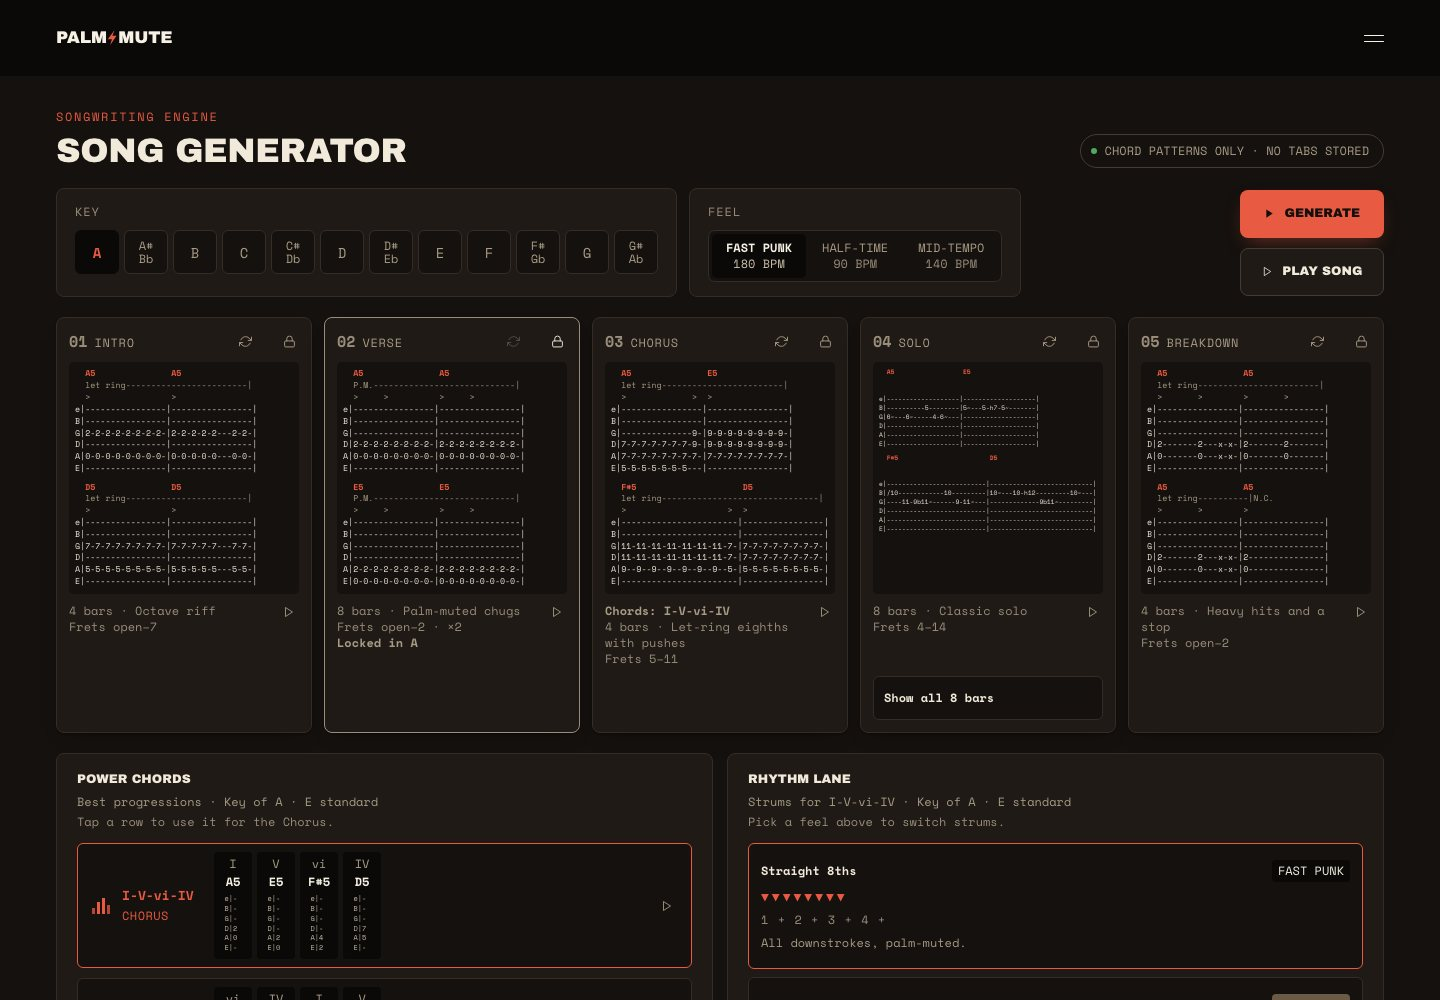
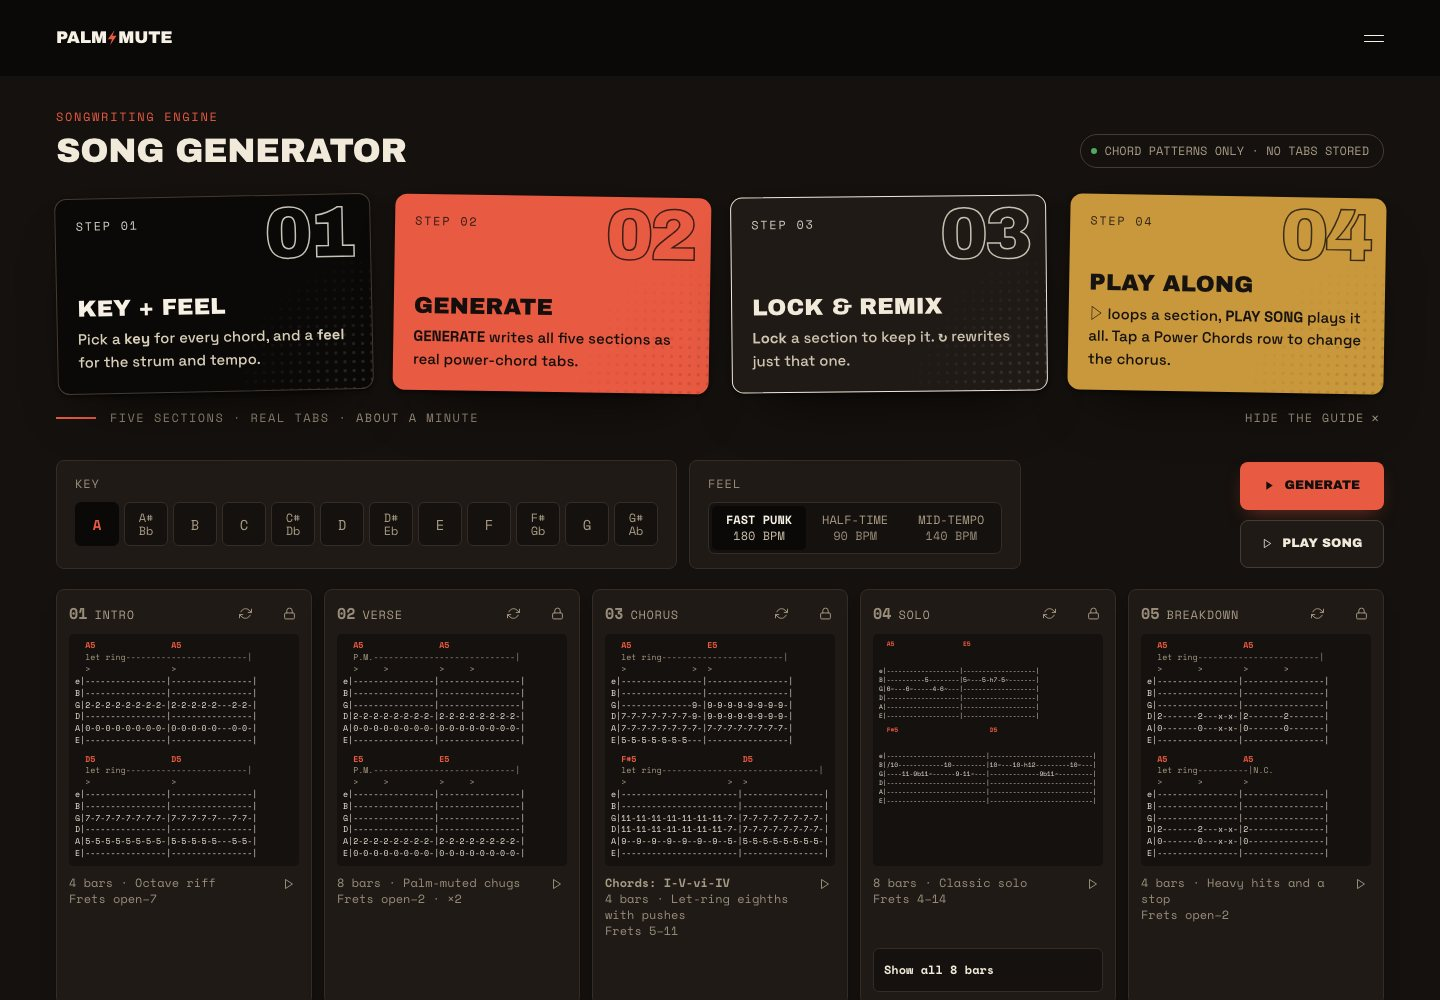
Open the site in light for everyone; start every section unlocked
Theme: the site followed the device's appearance setting until a reader
picked one, so dark-mode devices opened dark. It now opens light for
everyone; dark is only a stored choice from the menu's DARK switch. The
viewport's color-scheme hint is light too, so dark-mode devices don't paint
a dark flash first.

Verse: it started locked only because the original mockups showed it as a
demo of the lock. Every section now starts unlocked.

Tests: "dark" Playwright projects now store a dark choice up front (as a
reader would), so all dark-mode checks still run in dark; the theme test
checks a fresh dark-mode device gets light; tests that relied on a locked
Verse lock it themselves. README screenshots regenerated.

diff --git a/e2e/generator-ux.spec.ts b/e2e/generator-ux.spec.ts
@@ -10,6 +10,8 @@ test.describe("generator UX", () => {
 
   test("a locked section shows its key and can be updated to the new one", async ({ page }) => {
     const verse = section(page, "Verse");
+    await expect(verse).not.toContainText("Locked in"); // every section starts unlocked
+    await verse.getByRole("button", { name: "Lock Verse" }).click();
     await expect(verse).toContainText("Locked in A");
     await expect(verse.getByRole("button", { name: /^Update to/ })).toHaveCount(0);
     const before = await verse.locator("svg[data-tab]").textContent();
@@ -37,8 +39,8 @@ test.describe("generator UX", () => {
       // The Verse's tab is played twice (×2); everything else once per loop.
       expect(played.length % tab.length).toBe(0);
       played.forEach((bar, i) => expect(bar, `${label} bar ${i + 1}`).toEqual(tab[i % tab.length]));
-      // Locked Verse keeps the feel it was locked in; the rest follow the page (Breakdown is always half-time).
-      expect(pb.bars.every((b) => b.feel === (label === "Verse" ? "fast-punk" : "half-time"))).toBe(true);
+      // Every section follows the page's feel (and the Breakdown is always half-time).
+      expect(pb.bars.every((b) => b.feel === "half-time")).toBe(true);
     }
     // Regenerating while playing restarts with the new take.
     const intro = section(page, "Intro");
@@ -64,10 +66,8 @@ test.describe("generator UX", () => {
     // Intro 4 + Verse 4 × 2 + Chorus 4 + Solo 8 (the lead engine; its line is compared) + Breakdown 4.
     const expected = [...tabs.Intro, ...tabs.Verse, ...tabs.Verse, ...tabs.Chorus, ...tabs.Solo, ...tabs.Breakdown];
     expect(playedCells(pb)).toEqual(expected);
-    expect(pb.bars.slice(0, 4).every((b) => b.feel === "mid-tempo")).toBe(true);
-    // The Verse is locked (by default), so it keeps the feel it was locked in, exactly as its card shows.
-    expect(pb.bars.slice(4, 12).every((b) => b.feel === "fast-punk")).toBe(true);
-    expect(pb.bars.slice(12, 16).every((b) => b.feel === "mid-tempo")).toBe(true);
+    // Intro, Verse and Chorus play at the page's feel.
+    expect(pb.bars.slice(0, 16).every((b) => b.feel === "mid-tempo")).toBe(true);
     expect(pb.bars.slice(24).every((b) => b.feel === "half-time")).toBe(true); // Breakdown is always half-time
     expect(pb.bars.slice(16, 24).every((b) => b.lead && b.cells.some(Boolean))).toBe(true); // the solo plays over its chords
     await page.getByRole("button", { name: "STOP SONG" }).click();

diff --git a/e2e/theme.spec.ts b/e2e/theme.spec.ts
@@ -1,16 +1,25 @@
 import { expect, onlyAtWidths, openMenu, projectTheme, test } from "./fixtures";
 
 test.describe("dark mode", () => {
-  test("follows the OS colour scheme by default", async ({ page }, info) => {
-    await page.goto("/");
-    const html = page.locator("html");
-    if (projectTheme(info) === "dark") await expect(html).toHaveClass(/\bdark\b/);
-    else await expect(html).not.toHaveClass(/\bdark\b/);
+  test("the site opens light, whatever the device's appearance setting", async ({ browser }, info) => {
+    onlyAtWidths(info, [1440]);
+    // A fresh visitor with a dark-mode device and no stored choice.
+    for (const colorScheme of ["dark", "light"] as const) {
+      const context = await browser.newContext({ colorScheme, baseURL: info.project.use.baseURL });
+      const page = await context.newPage();
+      for (const path of ["/", "/generator/", "/chords/"]) {
+        await page.goto(path);
+        await expect(page.locator("html"), `${colorScheme} device, ${path}`).not.toHaveClass(/\bdark\b/);
+        expect(await page.evaluate(() => getComputedStyle(document.body).backgroundColor)).toBe("rgb(246, 241, 228)"); // paper
+      }
+      await context.close();
+    }
   });
 
   test("the toggle switches theme and the choice persists", async ({ page }, info) => {
     onlyAtWidths(info, [390, 1440]);
     await page.goto("/generator/");
+    // Light projects start light (the default); dark projects start from a stored dark choice.
     const startDark = projectTheme(info) === "dark";
     await openMenu(page);
     const toggle = page.getByRole("switch", { name: "Dark mode" });

diff --git a/lib/theme.ts b/lib/theme.ts
@@ -1,10 +1,11 @@
-// Dark-mode preference: an explicit choice is stored in localStorage; otherwise follow the OS.
+// Theme: light by default for everyone (owner call, 2026-09-30). Dark only when the reader picks it with
+// the menu's DARK switch; that choice is stored in localStorage and applied before first paint.
 export type Theme = "light" | "dark";
 
 export const THEME_STORAGE_KEY = "palm-mute-theme";
 
-/** Runs in <head> before first paint so a dark-mode page never flashes light. */
-export const THEME_SCRIPT = `(function(){try{var t=localStorage.getItem("${THEME_STORAGE_KEY}");if(t!=="light"&&t!=="dark"){t=window.matchMedia("(prefers-color-scheme: dark)").matches?"dark":"light"}if(t==="dark")document.documentElement.classList.add("dark")}catch(e){}})();`;
+/** Runs in <head> before first paint so a reader who chose dark never sees a light flash. */
+export const THEME_SCRIPT = `(function(){try{if(localStorage.getItem("${THEME_STORAGE_KEY}")==="dark")document.documentElement.classList.add("dark")}catch(e){}})();`;
 
 export function currentTheme(): Theme {
   return document.documentElement.classList.contains("dark") ? "dark" : "light";

diff --git a/e2e/fixtures.ts b/e2e/fixtures.ts
@@ -4,7 +4,21 @@ import { type Page, type TestInfo, expect, test as base } from "@playwright/test
  * Shared test setup. Every test fails if the page logs a console error or throws, so "no console
  * errors" is checked everywhere, not just in one spec.
  */
-export const test = base.extend<{ consoleErrors: string[] }>({
+export const test = base.extend<{ consoleErrors: string[]; darkChoice: void }>({
+  /**
+   * The site opens light for everyone; dark is the reader's choice (DECISIONS.md). "Dark" projects make
+   * that choice up front, as if the reader had flipped the DARK switch, unless a test already stored one.
+   */
+  darkChoice: [
+    async ({ page }, use, info) => {
+      if (info.project.use.colorScheme === "dark")
+        await page.addInitScript(() => {
+          if (!localStorage.getItem("palm-mute-theme")) localStorage.setItem("palm-mute-theme", "dark");
+        });
+      await use();
+    },
+    { auto: true },
+  ],
   consoleErrors: [
     async ({ page }, use) => {
       const errors: string[] = [];

diff --git a/e2e/generator.spec.ts b/e2e/generator.spec.ts
@@ -38,7 +38,13 @@ test.describe("generator", () => {
   });
 
   test("regenerate changes an unlocked section; lock freezes it", async ({ page }) => {
-    // Verse is locked by default and can't be regenerated.
+    // Every section starts unlocked (DECISIONS.md).
+    for (const label of ["Intro", "Verse", "Chorus", "Solo", "Breakdown"]) {
+      await expect(section(page, label).getByRole("button", { name: `Lock ${label}` })).toHaveAttribute("aria-pressed", "false");
+      await expect(section(page, label).getByRole("button", { name: `Regenerate ${label}` })).toBeEnabled();
+    }
+    // A locked section can't be regenerated.
+    await section(page, "Verse").getByRole("button", { name: "Lock Verse" }).click();
     await expect(section(page, "Verse").getByRole("button", { name: "Verse is locked" })).toBeDisabled();
     await expect(section(page, "Verse").getByRole("button", { name: "Unlock Verse" })).toHaveAttribute("aria-pressed", "true");
 

diff --git a/e2e/active-section.spec.ts b/e2e/active-section.spec.ts
@@ -27,7 +27,9 @@ test.describe("active section", () => {
     expect(await active(page)).toEqual([]);
     const red = await accent(page);
     for (const label of ["Intro", "Verse", "Chorus", "Solo", "Breakdown"]) expect(await borderColor(page, label), label).not.toBe(red);
-    // The Verse is locked by default: ink border, not the plain one.
+    // Nothing starts locked; a locked card gets an ink border, not the plain one.
+    await expect(page.locator("section[data-locked='true']")).toHaveCount(0);
+    await card(page, "Verse").getByRole("button", { name: "Lock Verse" }).click();
     await expect(card(page, "Verse")).toHaveAttribute("data-locked", "true");
     expect(await borderColor(page, "Verse")).not.toBe(await borderColor(page, "Intro"));
     // The Chorus says which progression it plays (the red row in Power Chords).

diff --git a/scripts/build-readme-assets.ts b/scripts/build-readme-assets.ts
@@ -127,8 +127,11 @@ function socialHtml(tabLines: string[], specs: string): string {
 }
 
 async function screenshot(page: Page, path: string, file: string, theme: "light" | "dark", setup?: (p: Page) => Promise<void>) {
+  // The site opens light; dark is a stored choice (the menu's DARK switch), so set it like a reader would.
   await page.emulateMedia({ colorScheme: theme, reducedMotion: "reduce" });
   await page.goto(`http://localhost:${PORT}${path}`);
+  await page.evaluate((t) => localStorage.setItem("palm-mute-theme", t), theme);
+  await page.reload();
   await page.waitForLoadState("networkidle");
   await page.evaluate(() => document.fonts.ready);
   if (setup) await setup(page);

diff --git a/app/layout.tsx b/app/layout.tsx
@@ -35,7 +35,8 @@ export const viewport: Viewport = {
     { media: "(prefers-color-scheme: light)", color: "#171310" },
     { media: "(prefers-color-scheme: dark)", color: "#0B0908" },
   ],
-  colorScheme: "light dark",
+  // Light by default; a reader who picks dark gets `color-scheme: dark` from the .dark stylesheet rules.
+  colorScheme: "light",
 };
 
 const STRUCTURED_DATA = {

diff --git a/DECISIONS.md b/DECISIONS.md
@@ -8,6 +8,8 @@ sessions: use these instead of the kit's recommended defaults (see `CLAUDE.md`).
 | Originality-check badge | Always PASS for v1 (`lib/originalityCheck.ts` stub) | Recommended default |
 | Locked sections across key changes | Frozen once locked — key/feel changes don't touch a locked section | Recommended default |
 | Dark mode | **Build a real dark theme** (overrides the "disable for v1" default) | Repo owner, 2026-09-27 |
+| Default theme | **Light for everyone** until the reader picks dark with the menu's DARK switch (remembered). No longer follows the device's appearance setting | Repo owner, 2026-09-30 |
+| Verse lock on load | **Every section starts unlocked**, the Verse included (it was locked only because the mockups showed it as a demo of the lock; overrides `.kit/acceptance-criteria.md` on this point) | Repo owner, 2026-09-30 |
 | Audio approach | Synthesized (Tone.js synths, no sample pack) | Recommended default |
 | Section card highlight | **Red border = sounding now** (replaces "always the Chorus card"): a section's play button lights its card, and Play song moves the light card by card with the music; nothing is red when nothing plays. Locked cards get an ink border; the Chorus says which progression it plays ("Chords: I-V-vi-IV"); section numbers are neutral. Red now means "in use / happening" everywhere on the page | Repo owner, 2026-09-27 |
 | Desktop breakpoint | **1280px** (tokens say 1440) so common laptop widths get the 5-column layout | Repo owner, 2026-09-27 |
@@ -61,7 +63,7 @@ Set by the `/next-phases` routine on 2026-09-27; listed in each PR so the owner 
 
 - **Dark mode:** the dark palette lives next to the light one in `tailwind.config.js` and is emitted
   as CSS variables (`:root` / `.dark`). The toggle stores an explicit choice in `localStorage`;
-  with no stored choice it follows the OS `prefers-color-scheme`. The mockups have no dark
+  with no stored choice the site is light (since 2026-09-30; before that it followed the OS). The mockups have no dark
   designs, so the dark palette is an in-house interpretation of the tape-deck look — worth a
   design pass.
 - **Solo variations:** seed 0 is still the template lick (`5,7,5,7` in A). Regenerating writes a
